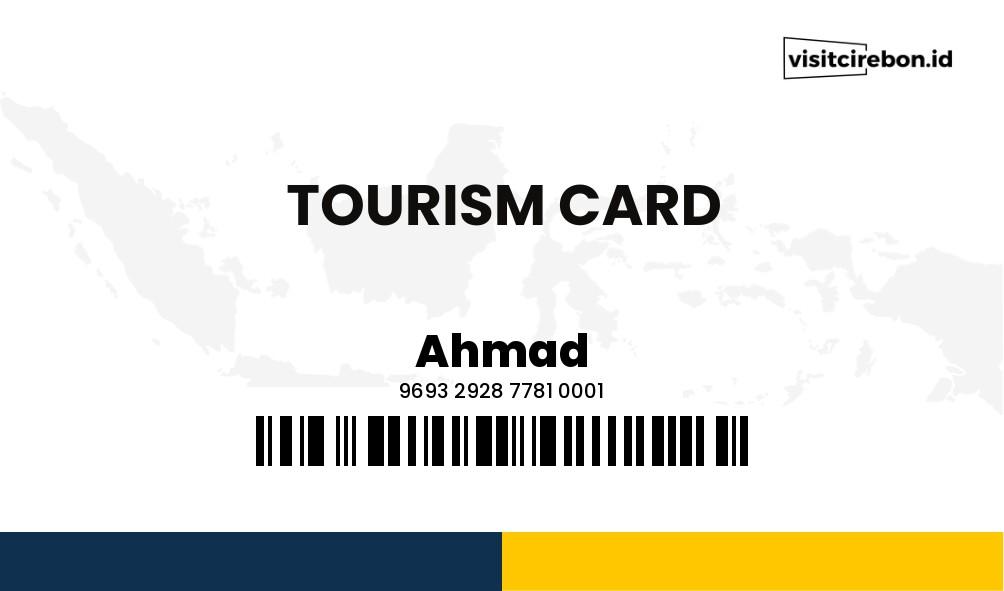
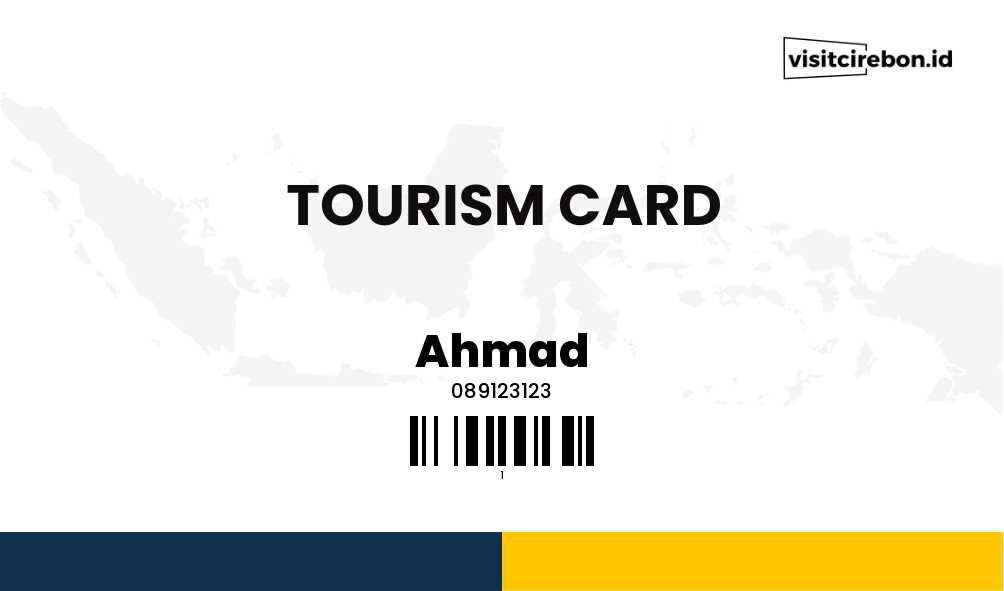
revisi discount card by phone

Changed region(s): [[0.247, 0.7005, 0.7719, 0.7919], [0.4014, 0.6396, 0.6175, 0.6701]]

diff --git a/resources/views/partner/penggunaan_kartu.blade.php b/resources/views/partner/penggunaan_kartu.blade.php
@@ -16,8 +16,8 @@ Penggunaan Kartu (Discount Card)
                 <form method="get" action="{{ url('app-mitra/penggunaan-kartu') }}">
                     @csrf
                     <div class="form-group">
-                        <label>Masukkan Nomor Kartu</label>
-                        <input type="number" class="form-control" value="{{ $card_number }}" placeholder="Masukkan Nomor Kartu" name="card_number">
+                        <label>Masukkan Nomor Hp Pengguna</label>
+                        <input type="text" class="form-control" value="{{ $phone_number }}" placeholder="Masukkan Nomor Hp Pengguna" name="phone_number">
                     </div>
                     <div class="form-group">
                         <button type="submit" class="btn btn-primary">
@@ -32,23 +32,25 @@ Penggunaan Kartu (Discount Card)
     <div class="col-md-7">
         <div class="card">
             <div class="card-body">
-                @if($card_number == NULL)
+                @if($phone_number == NULL)
                 <p class="text-center">
-                    << Input Nomor Kartu Terlebih Dahulu >>
+                    << Input Nomor Hp Pengguna Kartu Terlebih Dahulu >>
                 </p>
                 @else
                     @if($card == NULL)
                         <div class="alert alert-warning">
-                            Maaf, Data Kartu (Discount Card) Tidak Ditemukan
+                            Maaf, Data Tidak Ditemukan
                         </div>
                     @else
                         <div class="alert alert-info">
-                            Data Kartu (Discount Card) Berhasil Ditemukan
+                            Data Berhasil Ditemukan
                         </div>
                         <p class="text-center">
-                            <b class="h4 font-weight-bold">{{ $card->code }}</b>
+                            <b class="h4 font-weight-bold">{{ $card->user->name }}</b>
                             <br>
-                            {{ $card->user->name }}
+                            {{ $card->user->phone }}
+                            <br>
+                            <small class="text-muted" style='font-size:12px'>ID Kartu: {{ $card->id }}</small>
                         </p>
                         <div class="row">
                             <div class="col-md-4 text-center">
@@ -144,8 +146,9 @@ Penggunaan Kartu (Discount Card)
                     <thead>
                         <tr>
                             <th class="text-center">No</th>
-                            <th class="text-center">No. Kartu</th>
+                            <!-- <th class="text-center">No. Kartu</th> -->
                             <th class="text-center">Nama Pengguna</th>
+                            <th class="text-center">No. Hp Pengguna</th>
                             <th class="text-center">Tanggal Penggunaan</th>
                             <th class="text-center">Waktu Penggunaan</th>
                         </tr>
@@ -158,8 +161,13 @@ Penggunaan Kartu (Discount Card)
                             <?php $uno++; ?>
                             <tr>
                                 <td class="text-center">{{ $uno }}</td>
-                                <td class="text-center">{{ $use->card->code }}</td>
-                                <td class="text-center">{{ $use->user->name }}</td>
+                                <!-- <td class="text-center">{{ $use->card->code }}</td> -->
+                                <td class="text-center">
+                                    {{ $use->user->name }}
+                                    <br>
+                                    <small class="text-muted" style='font-size:12px'>ID Kartu: {{ $use->card_id }}</small>
+                                </td>
+                                <td class="text-center">{{ $use->user->phone }}</td>
                                 <td class="text-center">{{ tglIndo($use->date_used) }}</td>
                                 <td class="text-center">{{ date("H:i",strtotime($use->time_used)) }}</td>
                             </tr>

diff --git a/app/Http/Controllers/CardUsedPartnerController.php b/app/Http/Controllers/CardUsedPartnerController.php
@@ -8,31 +8,78 @@ use Illuminate\Support\Facades\Auth;
 use App\Models\DiscountCard;
 use App\Models\DiscountCardSale;
 use App\Models\DiscountCardUsed;
+use App\Models\User;
 
 class CardUsedPartnerController extends Controller
 {
     //
     public function penggunaan_kartu(Request $request){
-        if($request->card_number){
-            $card_number = $request->card_number;
+        $date_now = date("Y-m-d");
+        $time_now = date("H:i");
+        if($request->phone_number){
+            $phone_number = $request->phone_number;
 
-            $card = DiscountCard::where("code",$card_number)->first();
+            $user = User::where("phone",$phone_number)->first();
 
-            if($card){
-                $card = $card;
-            }else{
+            if(!$user){
                 $card = NULL;
+            }else{
+                $card = DiscountCard::where("user_id",$user->id)
+                                        ->where("date_expired","!=",NULL)
+                                        ->where("date_expired",">=",$date_now)
+                                        ->first();
+                
+                if($card){
+                    if(date("Y-m-d",strtotime($card->date_expired)) > $date_now){
+                        $use_action = "can_use";
+                    }elseif(date("Y-m-d",strtotime($card->date_expired)) == $date_now){
+                        if(date("H:i",strtotime($card->time_expired)) >= $time_now){
+                            $use_action = "can_use";
+                        }else{
+                            $use_action = "has_expired";
+                        }
+                    }else{
+                        $use_action = "has_expired";
+                    }
+
+                    if($use_action == "can_use"){
+                        $card = $card;
+                    }else{
+                        $card = DiscountCard::where("user_id",$user->id)
+                                        ->where("date_expired",NULL)
+                                        ->first();
+                        
+                        if($card){
+                            $card = $card;
+                        }else{
+                            $card = NULL;
+                        }
+                    }
+                }else{
+                    $card = DiscountCard::where("user_id",$user->id)
+                                        ->where("date_expired",NULL)
+                                        ->first();
+                        
+                    if($card){
+                        $card = $card;
+                    }else{
+                        $card = NULL;
+                    }
+                }
             }
+
         }else{
-            $card_number = NULL;
+            $phone_number = NULL;
             $card = NULL;
         }
+
+        // dd($card);
 
         $uses = DiscountCardUsed::where("partner_id",Auth::guard('partner')->user()->id)
                 ->orderBy("date_used","desc")->orderBy("id","desc")->get();
 
         $data = ([
-            "card_number" => $card_number,
+            "phone_number" => $phone_number,
             "card" => $card,
             "uses" => $uses,
         ]);

diff --git a/app/Http/Controllers/TransactionAdminController.php b/app/Http/Controllers/TransactionAdminController.php
@@ -126,7 +126,7 @@ class TransactionAdminController extends Controller
         $card = DiscountCard::where("id",$id)->first();
 
         $barcodeGenerator = new \Picqer\Barcode\BarcodeGeneratorPNG();
-        $barcodeImage = $barcodeGenerator->getBarcode($card->code, $barcodeGenerator::TYPE_CODE_128, 4, 50);
+        $barcodeImage = $barcodeGenerator->getBarcode($card->id, $barcodeGenerator::TYPE_CODE_128, 4, 50);
 
         // Storage::put('barcodes/barcode.png', $image);
 
@@ -155,16 +155,36 @@ class TransactionAdminController extends Controller
             }else{
                 $textCode .= " ".$cardCode[$codeno];
             }
-        }       
-        $background->text($textCode, $width / 2, ($height / 2) + 95, function ($font) {
+        }
+
+        // Tambahkan hp pengguna
+        $phoneNo = str_split($card->user->phone,4);
+        $textPhone = "";
+        for($pno = 0; $pno <= (count($phoneNo) - 1); $pno++){
+            if($pno == 0){
+                $textPhone .= $phoneNo[$pno];
+            }else{
+                $textPhone .= " ".$phoneNo[$pno];
+            }
+        }
+        
+        $background->text($card->user->phone, $width / 2, ($height / 2) + 95, function ($font) {
             $font->file('./assets/Poppins-Medium.ttf');
             $font->size(20);
             $font->color('#000000');
             $font->align('center');
             $font->valign('middle');
-        });        
+        });
 
         $background->insert($barcodeImage,'bottom-center',0, 125);
+
+        $background->text($card->id, $width / 2, ($height / 2) + 180, function ($font) {
+            $font->file('./assets/Poppins-Medium.ttf');
+            $font->size(10);
+            $font->color('#000000');
+            $font->align('center');
+            $font->valign('middle');
+        });
 
         // Simpan gambar
         $background->save('./assets/discount-card/discount_card_'.$card->code.'.jpg');

diff --git a/resources/views/admin/discount_card.blade.php b/resources/views/admin/discount_card.blade.php
@@ -20,7 +20,8 @@ Discount Card
                     </div>
                     <div class="col-md-4">
                         <b>Nama Pembeli</b> <br>
-                        {{ $transaction->user->name }}
+                        {{ $transaction->user->name }} <br>
+                        ({{ $transaction->user->phone }})
                     </div>
                     <div class="col-md-4">
                         <b>Jumlah</b> <br>
@@ -48,7 +49,7 @@ Discount Card
                     <thead>
                         <tr>
                             <th class="text-center">No</th>
-                            <th class="text-center">Kode</th>
+                            <!-- <th class="text-center">Kode</th> -->
                             <th class="text-center">Waktu Dibuat</th>
                             <th class="text-center">Waktu Aktifasi</th>
                             <th class="text-center">Waktu Kadaluarsa</th>
@@ -63,14 +64,14 @@ Discount Card
                         <?php $cno++; ?>
                         <tr>
                             <td class="text-center">{{ $cno }}</td>
-                            <td class="text-center">
+                            <!-- <td class="text-center">
                                 <?php
                                 $cardCode = str_split($card->code,4);
                                 ?>
                                 @for($codeno = 0; $codeno <= (count($cardCode) - 1); $codeno++)
                                 {{ $cardCode[$codeno] }}
                                 @endfor
-                            </td>
+                            </td> -->
                             <td class="text-center">
                                 {{ tglIndo($card->date_created) }}
                                 <br>
